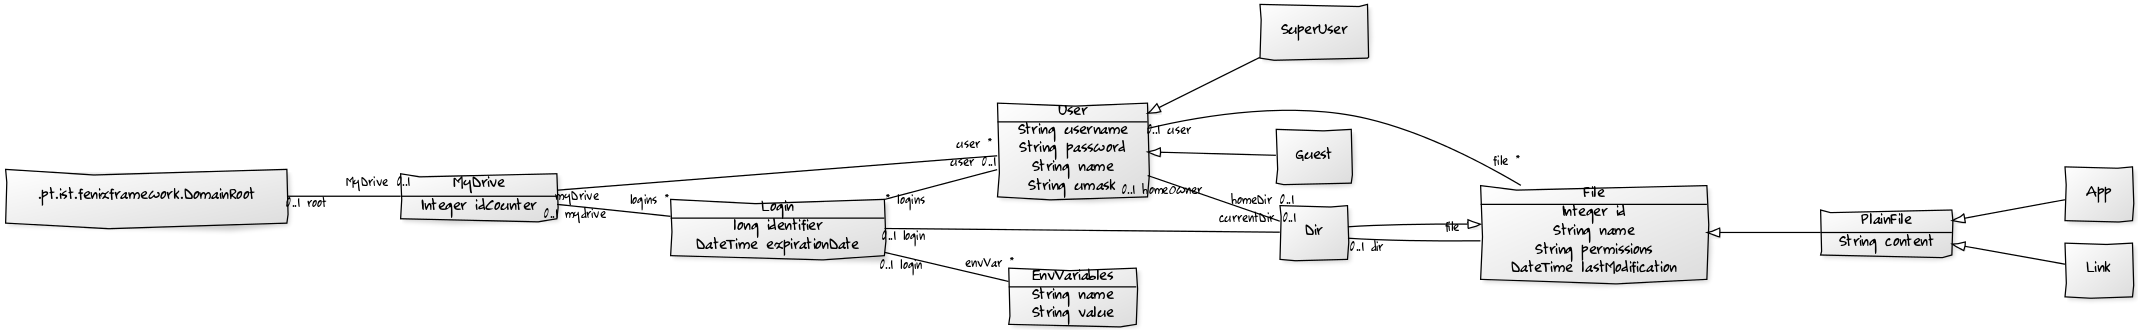
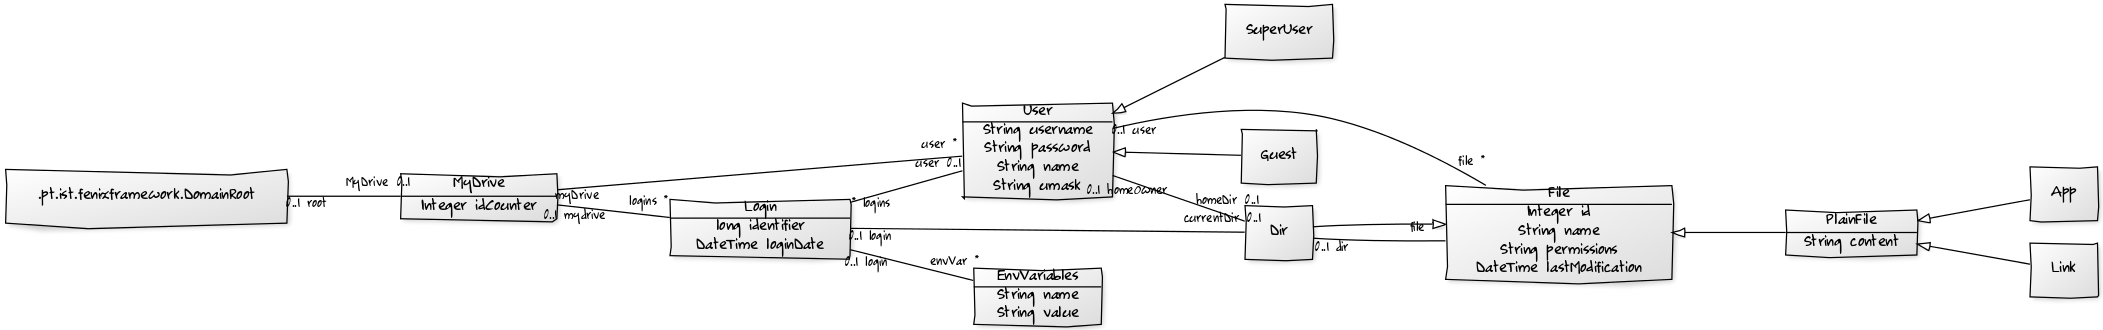
Reverted tests to what they used to be.

diff --git a/src/test/java/pt/tecnico/myDrive/service/ChangeDirectoryTest.java b/src/test/java/pt/tecnico/myDrive/service/ChangeDirectoryTest.java
@@ -157,7 +157,7 @@ public class ChangeDirectoryTest extends AbstractServiceTest {
 	public void changeDirWithInvalidLogin() throws Exception {
 		final String pathname = "/home/Andre/level1/level2/level3";
 		Login session = md.getLoginFromId(login);
-		session.setExpirationDate(new DateTime(1));
+		session.setLoginDate(new DateTime(1));
 		ChangeDirectoryService service = new ChangeDirectoryService(login, pathname);
 		service.execute();
 		assertEquals("Login CurrentDir does not match", userObject.getHomeDir().getPath(), md.getLoginFromId(login).getCurrentDir().getPath());

diff --git a/src/test/java/pt/tecnico/myDrive/service/WriteFileTest.java b/src/test/java/pt/tecnico/myDrive/service/WriteFileTest.java
@@ -111,7 +111,7 @@ public class WriteFileTest extends AbstractServiceTest {
     public void writeWithInvalidLogin() throws Exception {
 
         Login session = md.getLoginFromId(login);
-        session.setExpirationDate(new DateTime(1));
+        session.setLoginDate(new DateTime(1));
 
         PlainFile pf = new PlainFile("testFile", userObject, userObject.getHomeDir(), "rwxdrwxd","OriginalContent");
         WriteFileService service = new WriteFileService(login, "testFile", "ChangeContent");

diff --git a/src/test/java/pt/tecnico/myDrive/service/CreateFileTest.java b/src/test/java/pt/tecnico/myDrive/service/CreateFileTest.java
@@ -173,7 +173,7 @@ public class CreateFileTest extends  AbstractServiceTest {
     @Test(expected = InvalidLoginTokenException.class)
     public void createWithInvalidLogin() throws Exception {
         Login session = md.getLoginFromId(login);
-        session.setExpirationDate(new DateTime(1));
+        session.setLoginDate(new DateTime(1));
 
         CreateFileService service = new CreateFileService(login,"MyPlainFile","Plain");
         service.execute();

diff --git a/src/test/java/pt/tecnico/myDrive/service/DeleteFileTest.java b/src/test/java/pt/tecnico/myDrive/service/DeleteFileTest.java
@@ -101,7 +101,7 @@ public class DeleteFileTest extends AbstractServiceTest {
 	@Test(expected = InvalidLoginTokenException.class)
 	public void deleteWithInvalidLogin() throws Exception {
 		Login l = MyDrive.getInstance().getLoginFromId(login);
-		l.setExpirationDate(new DateTime(0));
+		l.setLoginDate(new DateTime(0));
 		DeleteFileService service = new DeleteFileService(login, "test");
 		service.execute();
 	}

diff --git a/src/test/java/pt/tecnico/myDrive/service/ReadFileTest.java b/src/test/java/pt/tecnico/myDrive/service/ReadFileTest.java
@@ -103,7 +103,7 @@ public class ReadFileTest extends AbstractServiceTest {
 	@Test(expected = InvalidLoginTokenException.class)
 	public void readWithInvalidLogin() throws Exception {
 		Login session = md.getLoginFromId(login);
-		session.setExpirationDate(new DateTime(1));
+		session.setLoginDate(new DateTime(1));
 		ReadFileService service = new ReadFileService(login, "testFile");
 		service.execute();
 	}

diff --git a/src/test/java/pt/tecnico/myDrive/service/LoginUserTest.java b/src/test/java/pt/tecnico/myDrive/service/LoginUserTest.java
@@ -80,7 +80,7 @@ public class LoginUserTest extends AbstractServiceTest{
 			service.execute();
 			id = service.result();
 			Login login = MyDrive.getInstance().getLoginFromId(id);
-			login.setExpirationDate(new DateTime(0));
+			login.setLoginDate(new DateTime(0));
 			service.execute();
 		} catch (Exception e) {
 			fail();
